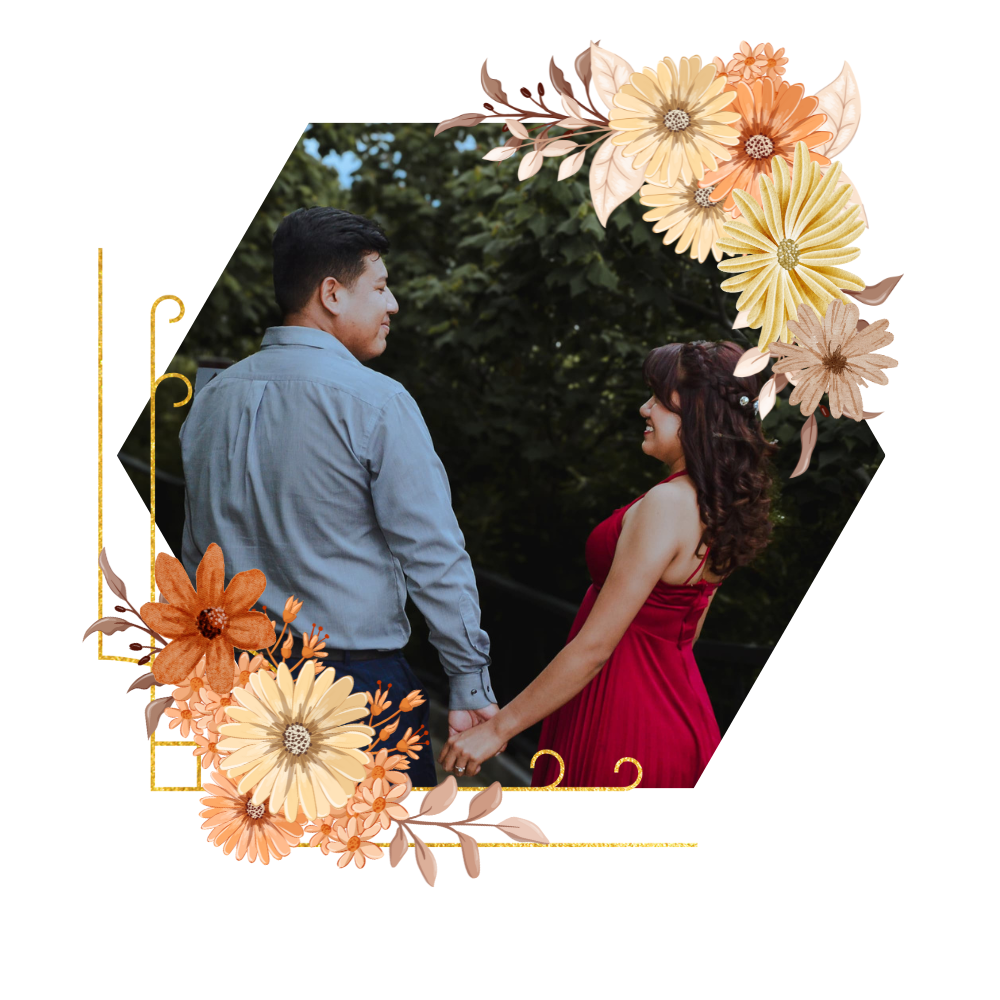
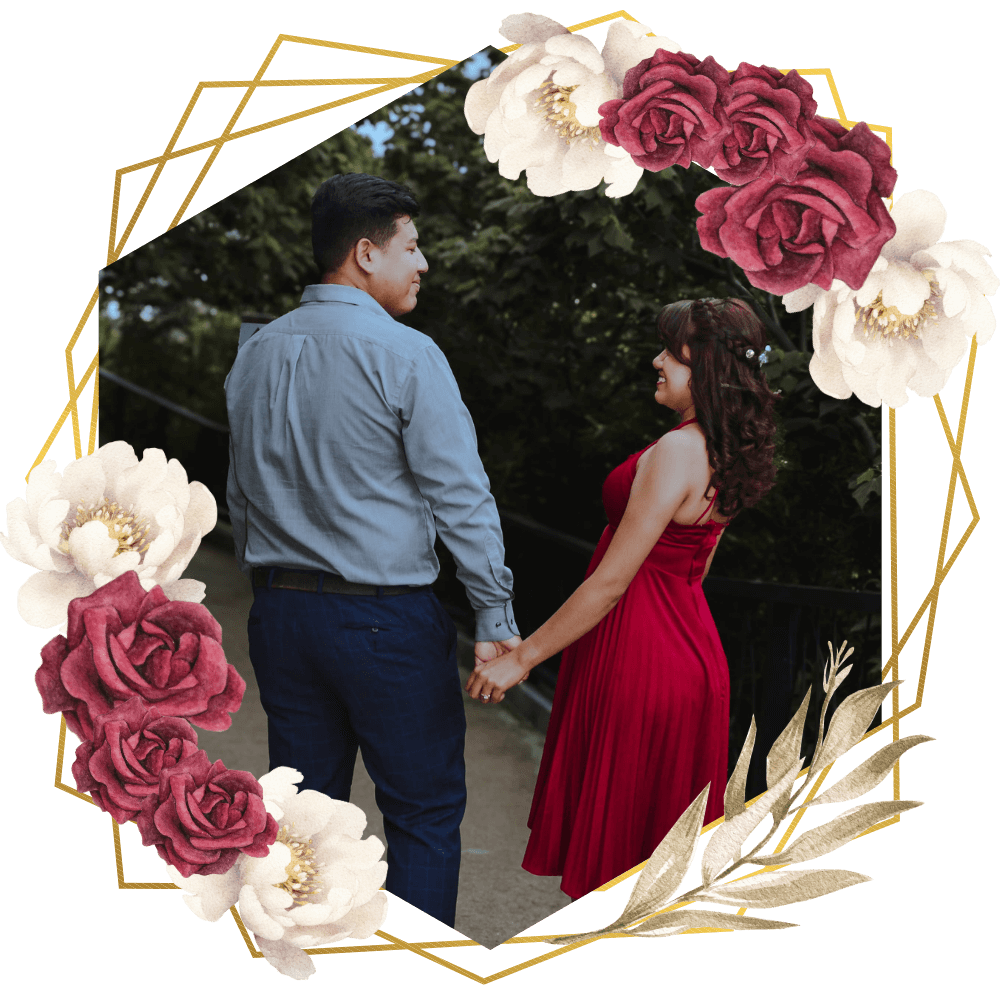
Add files via upload

diff --git a/index.html b/index.html
@@ -71,7 +71,7 @@
             </div>
             <span class="text-qr "><p></p></span>
             <button class="btn-send">Confirmar</button>
-            <h3 class="title-gift-modal">Recuerda presentar este codigo en la recepcion</h3>
+            <h5 class="title-gift-modal">Recuerda presentar este QR en la recepcion</h5>
          </span>
       </span>
    </span>
@@ -85,7 +85,7 @@
          <audio loop class="audio-2">
            <source src="multimedia/audio/115.mp3" type="audio/mpeg">
          </audio>
-      </span>
+      </span><span></span>
    </span>
    <header>
       <div class="div__menu-container">
@@ -130,7 +130,7 @@
             <h2 class="title-date">------ 7 DE DICIEMBRE ------</h2>
             <div class="text__container">
                <p class="text" data-aos="fade-right">
-                  Tu vales la pena, la alegría, la espera, la distancia, los momentos difíciles, las lágrimas, las risas, tú lo vales todo para mí
+                  Tu vales la pena, la alegría, la espera, la distancia, los momentos difíciles, las lágrimas, las risas, tú lo  todo para mí
                   <!-- Habría preferido superar a otros en el conocimiento de lo que es excelente, que en la medida de mi poder y dominio. -->
                </p>
             </div>
@@ -138,7 +138,9 @@
                <div class="agendar__container">
                      <a href="https://calendar.google.com/calendar/u/0/r/day/2024/12/07?pli=1" target="_blank" class="btn-agendar" >AGENDAR</a>
                </div>
-               <div class="background__image">
+               <!-- background__image -->
+               <div class="background__image-test">
+                  <img src="multimedia/images/gallery-image/transition/1.png" alt="">
                </div>
          </div>
       </div>
@@ -153,7 +155,8 @@
             </div>
             <h2 class="title__info">Disfruten el evento</h2>
             <div class="background__container-image">
-               <div class="background__image-2">
+               <div class="background__image-test">
+                  <img src="multimedia/images/gallery-image/transition/2.png" alt="">
                </div>
             </div>
          </div>
@@ -217,9 +220,9 @@
                      Mapa
                   </button>
             </div>
-            <div class="background__container-image image-grid">
-               <div class="background__image-3">
-               </div>
+            <div class="background__image-test">
+               <img src="multimedia/images/gallery-image/transition/3.png" alt="">
+            </div>
             </div>
          </div>
       </div>
@@ -238,9 +241,9 @@
             <div class="img__container" data-aos="fade-up" data-aos-delay="300">
                <img class="img-border img-outfit" src="https://assetsnffrgf-a.akamaihd.net/assets/m/1011232/univ/art/1011232_univ_pnr_lg.jpg">
             </div>
-            <div class="background__container-image">
-               <div class="background__image-5">
-               </div>
+            <div class="background__image-test">
+               <img src="multimedia/images/gallery-image/transition/4.png" alt="">
+            </div>
             </div>
          </div>
       </div>
@@ -409,7 +412,8 @@
    <section id="Mesa-de-regalos">
       <div class="main__container">
          <div class="background__container-image">
-            <div class="background__image-6">
+            <div class="background__image-test">
+               <img src="multimedia/images/gallery-image/transition/5.png" alt="">
             </div>
          </div>
          <div class="div__container">
@@ -432,15 +436,14 @@
    </section>
    <section id="Asistencia">
       <div class="main__container">
-         <div class="background__container-image">
-            <div class="background__image-4">
-            </div>
+         <div class="background__image-test">
+            <img src="multimedia/images/gallery-image/transition/6.png" alt="">
          </div>
          <div class="div__container">
             <h1 class="">Asistencia</h1>
             <div class="text__container">
                <p class="text" data-aos="fade-left">
-                  !No sabes que felices estaremos cuando comencemos nuestra historia juntos, pero tú presencia lo hará más bonito y especial para nosotros porque una de las muchas razones de que será inolvidable eres tú!
+                  ¡No sabes que felices estaremos cuando comencemos nuestra historia juntos, pero tú presencia lo hará más bonito y especial para nosotros, porque, una de las muchas razones de que será inolvidable, eres tú!
                </p>
             </div>
             <div class="confirm__container">
@@ -448,9 +451,8 @@
             </div>
          </div>
       </div>
-      <div class="background__container-image">
-            <div class="background__image">
-            </div>
+      <div class="background__image-test">
+         <img src="multimedia/images/gallery-image/transition/7.png" alt="">
       </div>
    </section>
    <footer class="footer">

diff --git a/css/css_index_estilo.css b/css/css_index_estilo.css
@@ -6,10 +6,16 @@ body {
 	font-size: 24px;
 	font-family: 'Dancing Script', cursive;
 	transition: background .4s, color .4s;
-	background-image: var(--background-test-1);
-	background-color: var(--background-color-test1);
+	/* background-color: #fff; */
+	background-image: url('../multimedia/images/background.png');
+	/* background-image: var(--background-test-1);
+	background-color: var(--background-color-test1); */
 	background-attachment: fixed;
 }
+.background__image-test {
+	filter: drop-shadow(0px 0px 10px #1b1b1b);
+}
+
 h1 {
 	color: var(--text-color);
 	text-align: center;
@@ -61,8 +67,8 @@ a {
 	--background-open-menu: #eefc;
 	--background-qr: #0000;
 	--text-color: #211c18;
-	--text-color-dorado: #f8d14f;
-	--text-color-dorado-var-1: #f8d14f;
+	--text-color-dorado: #FFA500;
+	--text-color-dorado-var-1: #FFA500;
 	--text-color-dorado-var-2: #211c18;
 	--text-color-hover: #E4E9F7;
 	--text-example-color: #DFF6FF;
@@ -317,18 +323,17 @@ body.dark{
 .modal-gift,.modal-confirm {
 	position: fixed;
 	min-height: 75%;
-	min-width: 95%;
+	max-width: 90%;
 	transform: translateY(0);
 	transition: transform .4s;
 	display: flex;
 	justify-content: center;
 	align-items: center;
-	max-width: 900px;
+	overflow: scroll;
+	max-height: 90%;
 }
 .data-info,.data-info-2 {
 	background: var(--background-page);
-	min-width: 90%;
-	width: 100%;
 	display: flex;
 	flex-direction: column;
 	align-items: center;
@@ -337,10 +342,13 @@ body.dark{
 	padding: 30px 2px;
 	border-radius: 10px;
 	flex-wrap: wrap;
-	outline: 2px solid var(--text-color-dorado);
 	margin: 0 4px;
 	font-family: sen;
 	font-size: 20px;
+	border: 2px solid var(--text-color-dorado);
+}.data-info-2 {
+	gap: 15px;
+	padding: 10px 2px;
 }
 
 .off-2 {
@@ -931,9 +939,19 @@ body.dark{
 	font-size: 18px;
 }
 .confirmar-familia {
-	color: var(--text-color-dorado);
+	color: var(--title-color);
 	margin-top: -20px;
 	border-bottom: 3px solid #7d0a1e;
+	display: flex;
+	flex-direction: column;
+	justify-content: center;
+	align-items: center;
+	margin-bottom: 5px;
+}.confirmar-familia > h3 {
+	color: var(--text-color-dorado);
+}
+.span-text-modal {
+	color: var(--text-color-dorado);
 }
 .btn-confirm {
 	border: 3px solid var(--text-color-dorado);
@@ -965,6 +983,35 @@ body.dark{
 	width: 100%;
 	background: var(--background-page);
 }
+
+/* liena de tiempo */
+
+.time-line {
+	margin: 30px 0;
+	display: grid;
+	grid-template-columns: 20fr 1fr 20fr;
+	justify-items: center;
+	align-content: center;
+	gap: 10px;
+}
+.linea {
+	grid-column: 2 / 3;
+	grid-row: 1 / 4;
+	border-left: 4px dashed #b3ff03;
+	margin: 5px;
+}
+.img-timeline-container {
+	height: 230px;
+	width: 160px;
+	border:  inset var(--text-color-dorado);
+}
+.img-timeline-container > img {
+	object-fit: cover;
+	height: 100%;
+	width: 100%;
+}
+
+/* liena de tiempo */
 
 .footer {
 	font-family: sen;

diff --git a/js/gift__script.js b/js/gift__script.js
@@ -251,9 +251,9 @@ sendButton.addEventListener("click", (e) => {
                 QR.makeCode(qrText);
                 let newHtmlCodeFam = `
                     <h3> ${nombre}</h3>
-                    <h5>Tu mesa es ${mesa}</h5>
-                    <h5>Tienes: ${personas} pases</h5>
-                    <h5>Tus pases para el baile son: ${personas}<h5/>
+                    <h5>Tu mesa es <span class="span-text-modal">${mesa}</span> </h5>
+                    <h5>Tienes: <span class="span-text-modal">${personas}</span> pases</h5>
+                    <h5>Tus pases para el baile son: <span class="span-text-modal">${personas}</span><h5/>
                     <h4>Recuerda que la entrada al baile es 6:00 pm<h4/>`;
                 confirmarFamilia.innerHTML += newHtmlCodeFam;
             }
